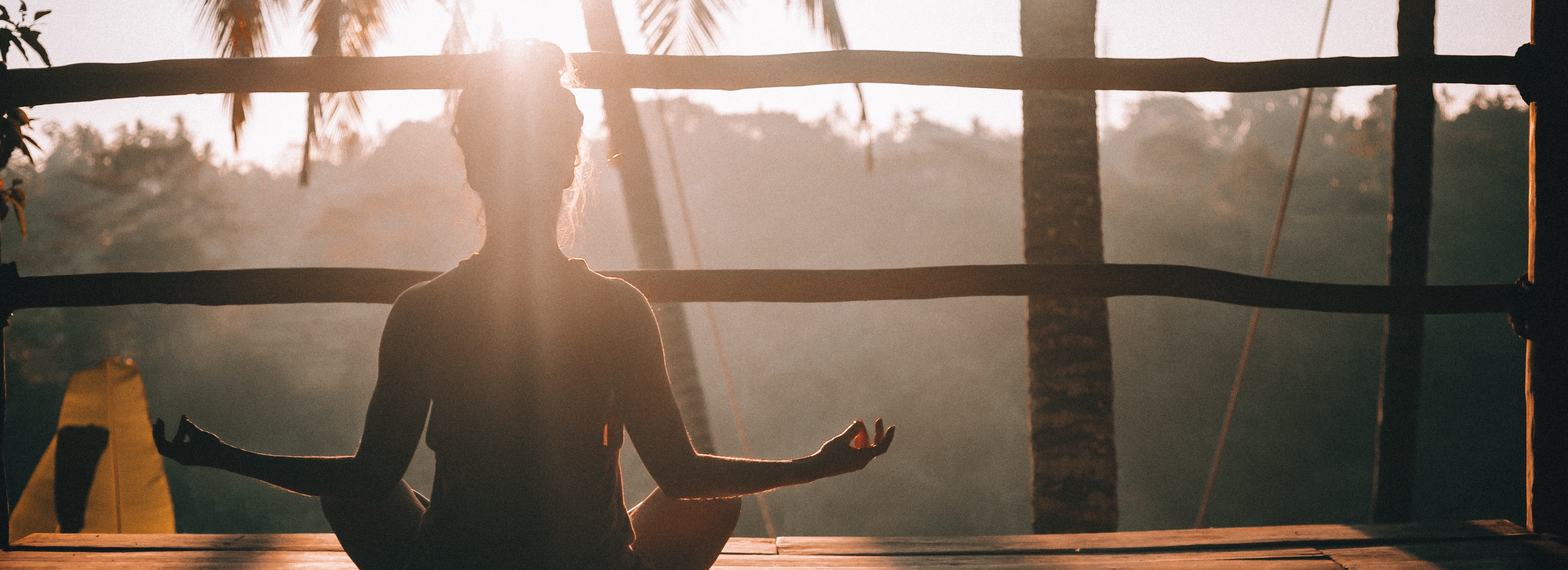
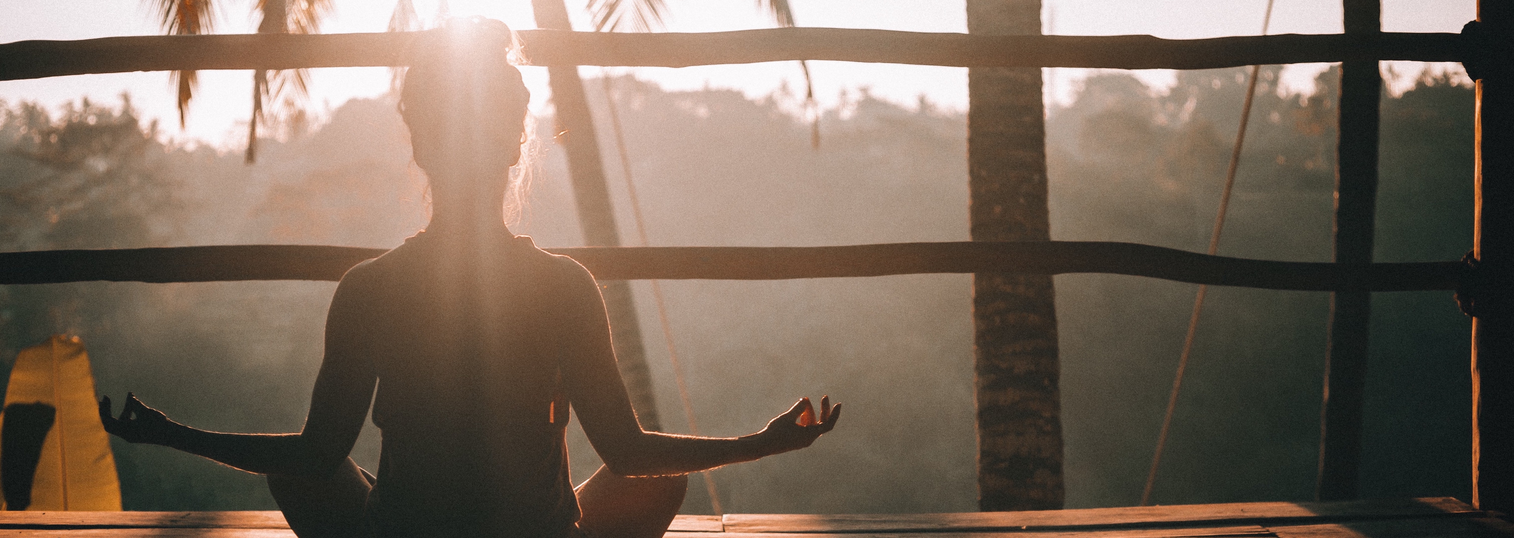
update media queries for medium and small phones for new home image and text

diff --git a/assets/css/stylesheet.css b/assets/css/stylesheet.css
@@ -264,6 +264,9 @@ h1 {
 #meditation-img {
     height: auto;
 }
+#image-text {
+    margin: 150px 100px;
+}
 }
 
 @media screen and (max-width: 1300px) {
@@ -287,6 +290,10 @@ h1 {
         width: 80%;
         height:auto;
     }
+    #image-text {
+        font-size:x-large;
+        text-align: left;
+    }
 }
 
 /* media queries small screens */
@@ -307,4 +314,18 @@ h1 {
 #form-border {
     width:100%;
 }
+#meditation-img {
+    height: 450px;
 }
+}
+
+@media screen and (max-width: 400px) {
+    #meditation-img {
+        height: 500px;
+    }
+    #image-text {
+        font-size:large;
+        text-align: left;
+        margin: 195px 75px;
+    }
+    }
